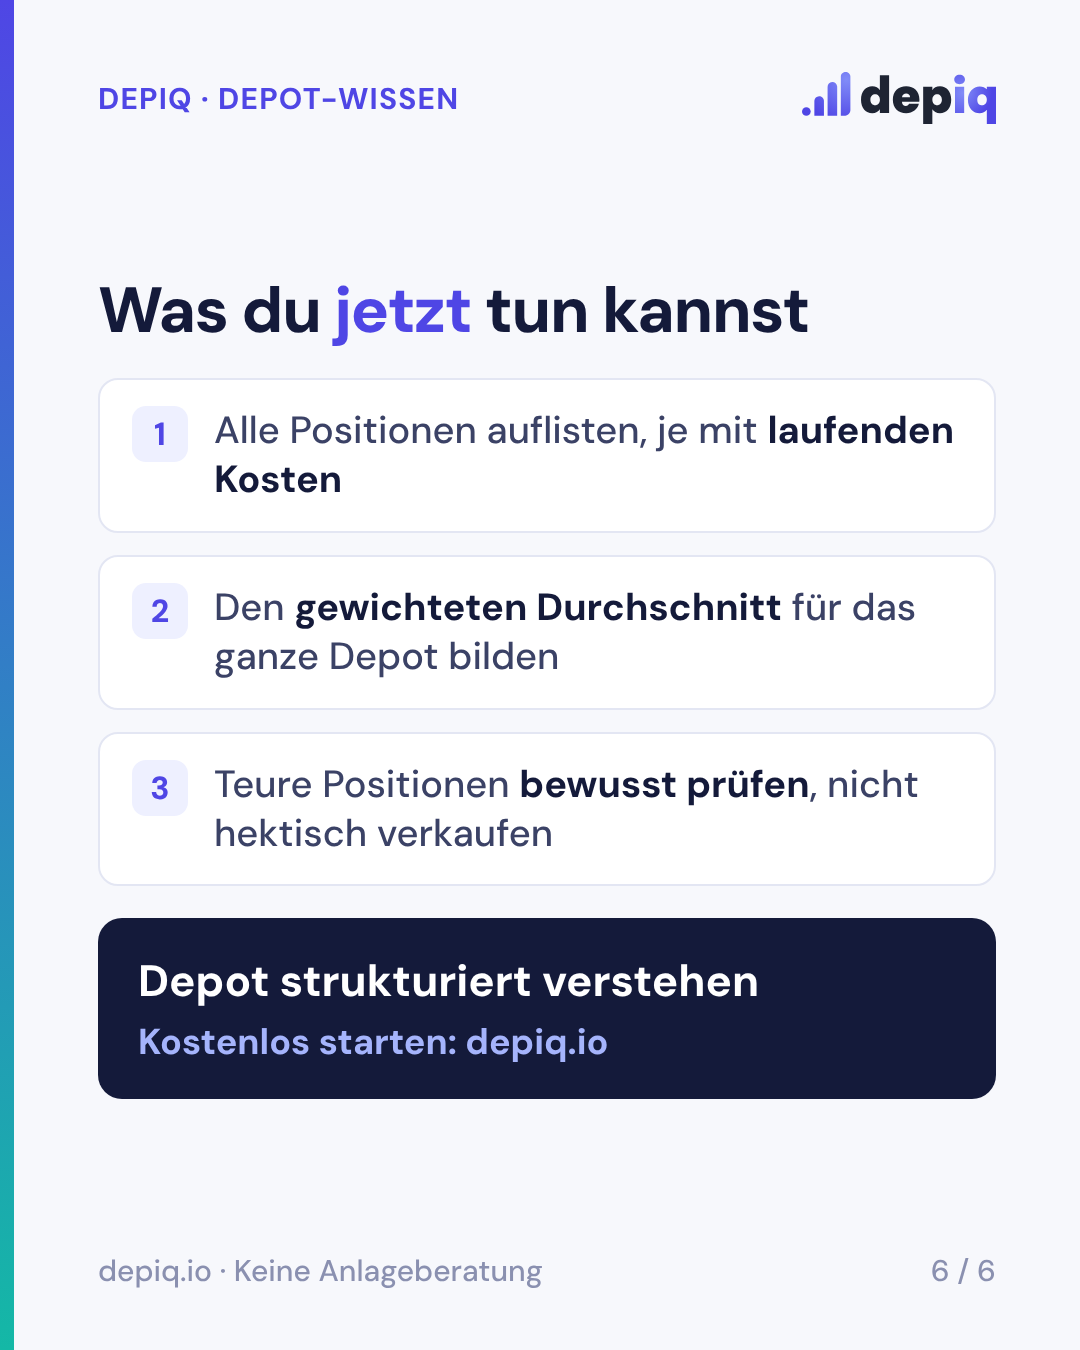
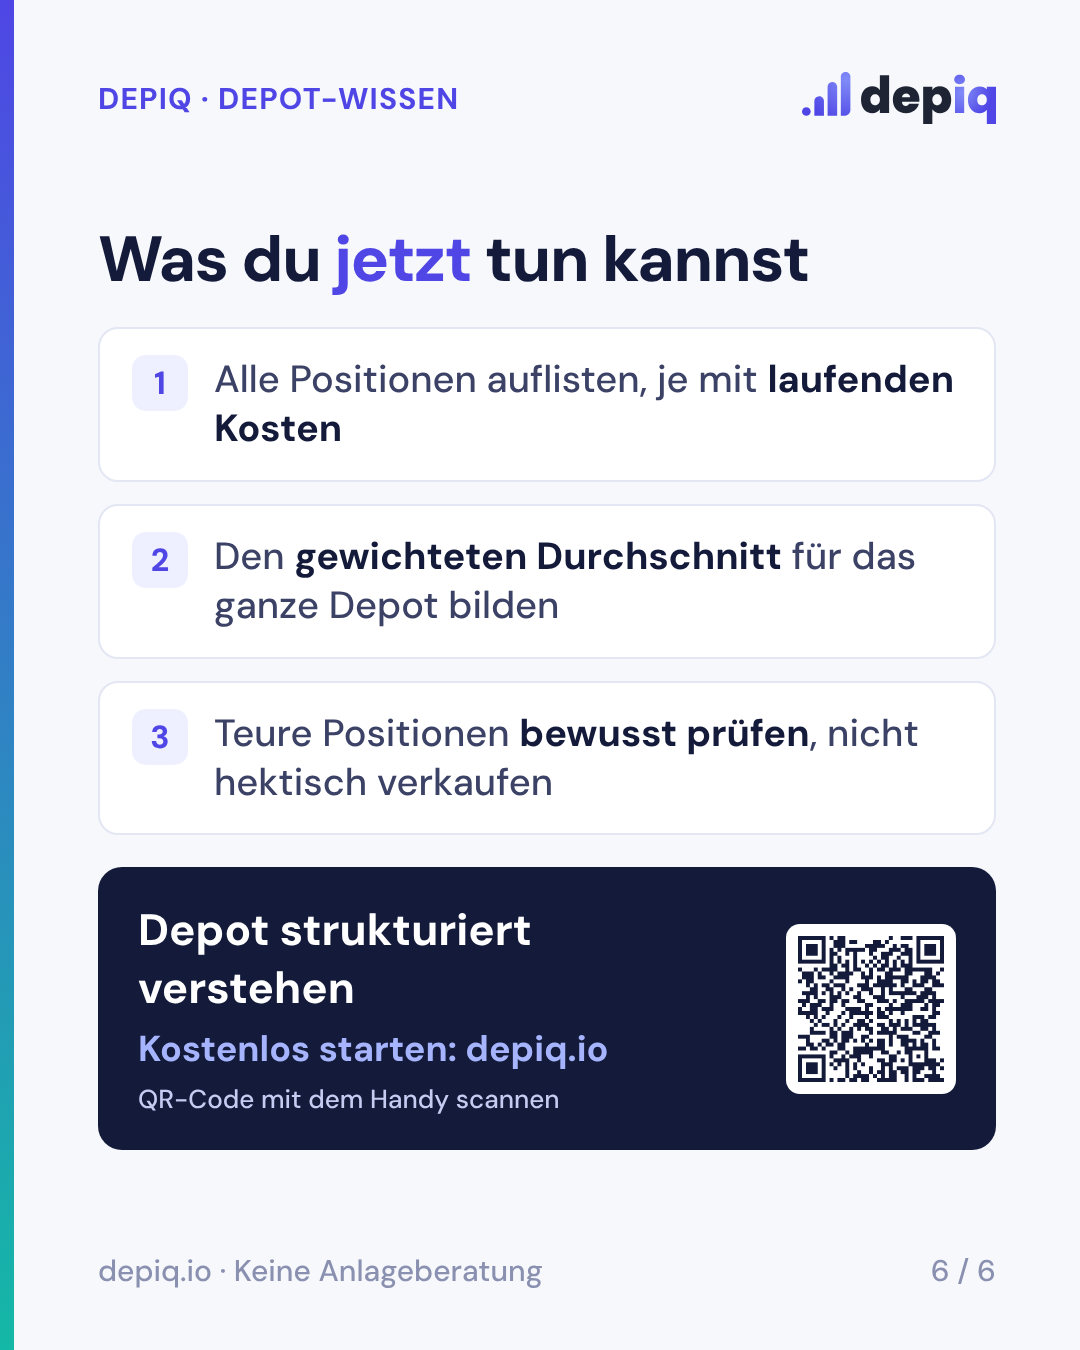
LinkedIn: QR-Code zentral in der CTA-Box
Claude-Session: https://claude.ai/code/session_01TCMRwfkoPUXt6cdHJjM9Lg

Changed region(s): [[0.0917, 0.1556, 0.9472, 0.8711], [0.1222, 0.5289, 0.1528, 0.5911], [0.1222, 0.4044, 0.1528, 0.4667]]

diff --git a/vorlage/linkedin.html b/vorlage/linkedin.html
@@ -30,7 +30,10 @@ p b{color:#141a3a;font-weight:700}
 .diagramm{background:#fff;border:2px solid #e3e6f3;border-radius:24px;padding:28px}
 .legende{display:flex;gap:36px;font-size:32px;font-weight:700;margin-top:10px}
 .legende span::before{content:'';display:inline-block;width:34px;height:10px;border-radius:5px;margin-right:12px;vertical-align:middle;background:var(--c)}
-.cta{padding:34px 40px;border-radius:24px;background:#141a3a;color:#fff}
+.cta{padding:34px 40px;border-radius:24px;background:#141a3a;color:#fff;display:flex;align-items:center;justify-content:space-between;gap:30px}
+.cta .qr{flex:none;width:170px;height:170px;border-radius:14px;background:#fff;padding:8px}
+.cta .qr img{width:100%;height:100%;display:block}
+.cta small{display:block;font-size:26px;color:#c7cbf2;margin-top:10px;font-weight:500}
 .cta strong{display:block;font-size:44px;margin-bottom:8px}.cta span{font-size:36px;color:#a5b4fc;font-weight:700}
 .fuss{display:flex;justify-content:space-between;font-size:30px;color:#8a90b0}
 </style></head><body><div class="rand"></div>
@@ -43,5 +46,10 @@ window.zeichne = d => {
   document.getElementById('reihe').textContent = d.reihe;
   document.getElementById('inhalt').innerHTML = d.seiten[N-1].html;
   document.getElementById('nr').textContent = `${N} / ${d.seiten.length}`;
+  // Zentral: Jede CTA-Box bekommt rechts den QR-Code zu depiq.io (mit Kampagnen-Markierung linkedin/dokument)
+  document.querySelectorAll('.cta').forEach(c => { if (c.querySelector('.qr')) return;
+    const t = document.createElement('div'); while (c.firstChild) t.appendChild(c.firstChild);
+    t.insertAdjacentHTML('beforeend', '<small>QR-Code mit dem Handy scannen</small>');
+    c.appendChild(t); c.insertAdjacentHTML('beforeend', '<div class="qr"><img src="qr-linkedin.png" alt="QR-Code depiq.io"></div>'); });
 };
 </script></body></html>

diff --git a/RICHTLINIEN.md b/RICHTLINIEN.md
@@ -91,6 +91,7 @@ LinkedIn bekommt **eigene Inhalte**, nicht dieselben Beiträge wie Instagram und
 - **Rhythmus:** Dienstag und Donnerstag, 11:00 Uhr (laut Metricool die stärkste Zeit auf LinkedIn).
 - **Ziel:** kostenlose Registrierung bei depiq („Depot strukturiert verstehen – depiq.io“) und E-Book.
 - **Glaubwürdige Zahlen:** Zeitaufwand, Renditen und Ersparnisse großzügig und realistisch schätzen, nie geschönt. Lieber „1 bis 2 Stunden im Jahr“ als „15 Minuten“. Gerundete Werte mit „rund“ oder „≈“ kennzeichnen, genauen Wert bei den Annahmen nennen. Aussagen über depiq nur, wenn die Funktion wirklich existiert. Zu gute Zahlen wirken unseriös und kosten Vertrauen. Renditen eher vorsichtig ansetzen, Annahmen immer nennen.
+- **QR-Code:** Die CTA-Box auf der letzten Seite bekommt automatisch einen QR-Code zu depiq.io (Markierung utm_source=linkedin, utm_campaign=dokument). Auf Instagram, Facebook und TikTok keinen QR-Code, dort wird am Handy gelesen.
 - Kein Börsen-Frühstück, keine Emotions-Bilder, keine Reels auf LinkedIn.
 
 ## 4e. depiq-Funktionen, die genannt werden dürfen (von Jürgen bestätigt)
